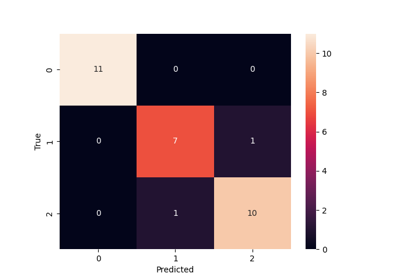
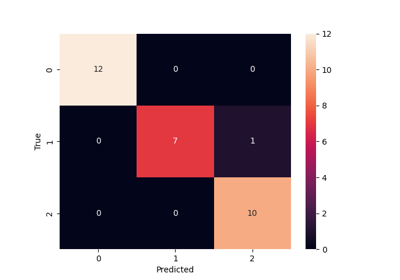
[ci skip] feat: Add adjusted bootstrap sampling to optimize the model towards icr samples cbba1f94c56dd8583269a4ff07836f05cc7d5595

diff --git a/searchindex.js b/searchindex.js
@@ -1,1 +1,1 @@
-Search.setIndex({"alltitles":{"API Reference":[[0,null]],"Computation times":[[3,null],[9,null]],"Example Gallery":[[1,null]],"Examples using icrlearn.ICRRandomForestClassifier":[[4,"examples-using-icrlearn-icrrandomforestclassifier"]],"Fitting and evaluating an ICR Random Forest":[[2,null]],"ICRRandomForestClassifier":[[4,null],[10,"icrrandomforestclassifier"]],"Predictor":[[0,"predictor"]],"User Guide":[[10,null]],"Utilities":[[0,"utilities"]],"icrlearn.utils.discovery.all_displays":[[5,null]],"icrlearn.utils.discovery.all_estimators":[[6,null]],"icrlearn.utils.discovery.all_functions":[[7,null]],"intra-class-rare-learn Documentation":[[8,null]]},"docnames":["api","auto_examples/index","auto_examples/plot_classifier","auto_examples/sg_execution_times","generated/icrlearn.ICRRandomForestClassifier","generated/icrlearn.utils.discovery.all_displays","generated/icrlearn.utils.discovery.all_estimators","generated/icrlearn.utils.discovery.all_functions","index","sg_execution_times","user_guide"],"envversion":{"sphinx":65,"sphinx.domains.c":3,"sphinx.domains.changeset":1,"sphinx.domains.citation":1,"sphinx.domains.cpp":9,"sphinx.domains.index":1,"sphinx.domains.javascript":3,"sphinx.domains.math":2,"sphinx.domains.python":4,"sphinx.domains.rst":2,"sphinx.domains.std":2,"sphinx.ext.intersphinx":1},"filenames":["api.rst","auto_examples/index.rst","auto_examples/plot_classifier.rst","auto_examples/sg_execution_times.rst","generated/icrlearn.ICRRandomForestClassifier.rst","generated/icrlearn.utils.discovery.all_displays.rst","generated/icrlearn.utils.discovery.all_estimators.rst","generated/icrlearn.utils.discovery.all_functions.rst","index.rst","sg_execution_times.rst","user_guide.rst"],"indexentries":{"all_displays() (in module icrlearn.utils.discovery)":[[5,"icrlearn.utils.discovery.all_displays",false]],"all_estimators() (in module icrlearn.utils.discovery)":[[6,"icrlearn.utils.discovery.all_estimators",false]],"all_functions() (in module icrlearn.utils.discovery)":[[7,"icrlearn.utils.discovery.all_functions",false]],"apply() (icrlearn.icrrandomforestclassifier method)":[[4,"icrlearn.ICRRandomForestClassifier.apply",false]],"calculate_rarity_scores() (icrlearn.icrrandomforestclassifier method)":[[4,"icrlearn.ICRRandomForestClassifier.calculate_rarity_scores",false]],"decision_path() (icrlearn.icrrandomforestclassifier method)":[[4,"icrlearn.ICRRandomForestClassifier.decision_path",false]],"estimators_samples_ (icrlearn.icrrandomforestclassifier property)":[[4,"icrlearn.ICRRandomForestClassifier.estimators_samples_",false]],"feature_importances_ (icrlearn.icrrandomforestclassifier property)":[[4,"icrlearn.ICRRandomForestClassifier.feature_importances_",false]],"fit() (icrlearn.icrrandomforestclassifier method)":[[4,"icrlearn.ICRRandomForestClassifier.fit",false]],"get_metadata_routing() (icrlearn.icrrandomforestclassifier method)":[[4,"icrlearn.ICRRandomForestClassifier.get_metadata_routing",false]],"get_params() (icrlearn.icrrandomforestclassifier method)":[[4,"icrlearn.ICRRandomForestClassifier.get_params",false]],"icrrandomforestclassifier (class in icrlearn)":[[4,"icrlearn.ICRRandomForestClassifier",false]],"predict() (icrlearn.icrrandomforestclassifier method)":[[4,"icrlearn.ICRRandomForestClassifier.predict",false]],"predict_log_proba() (icrlearn.icrrandomforestclassifier method)":[[4,"icrlearn.ICRRandomForestClassifier.predict_log_proba",false]],"predict_proba() (icrlearn.icrrandomforestclassifier method)":[[4,"icrlearn.ICRRandomForestClassifier.predict_proba",false]],"score() (icrlearn.icrrandomforestclassifier method)":[[4,"icrlearn.ICRRandomForestClassifier.score",false]],"set_fit_request() (icrlearn.icrrandomforestclassifier method)":[[4,"icrlearn.ICRRandomForestClassifier.set_fit_request",false]],"set_params() (icrlearn.icrrandomforestclassifier method)":[[4,"icrlearn.ICRRandomForestClassifier.set_params",false]],"set_score_request() (icrlearn.icrrandomforestclassifier method)":[[4,"icrlearn.ICRRandomForestClassifier.set_score_request",false]]},"objects":{"icrlearn":[[4,0,1,"","ICRRandomForestClassifier"]],"icrlearn.ICRRandomForestClassifier":[[4,1,1,"","apply"],[4,1,1,"","calculate_rarity_scores"],[4,1,1,"","decision_path"],[4,2,1,"","estimators_samples_"],[4,2,1,"","feature_importances_"],[4,1,1,"","fit"],[4,1,1,"","get_metadata_routing"],[4,1,1,"","get_params"],[4,1,1,"","predict"],[4,1,1,"","predict_log_proba"],[4,1,1,"","predict_proba"],[4,1,1,"","score"],[4,1,1,"","set_fit_request"],[4,1,1,"","set_params"],[4,1,1,"","set_score_request"]],"icrlearn.utils.discovery":[[5,3,1,"","all_displays"],[6,3,1,"","all_estimators"],[7,3,1,"","all_functions"]]},"objnames":{"0":["py","class","Python class"],"1":["py","method","Python method"],"2":["py","property","Python property"],"3":["py","function","Python function"]},"objtypes":{"0":"py:class","1":"py:method","2":"py:property","3":"py:function"},"terms":{"":[2,4,8],"0":[2,3,4,8,9],"00":[2,3,9],"01":[3,9],"08":8,"1":[2,3,4,8,9],"100":4,"11":2,"18":4,"2":[2,4],"2025":8,"3":4,"30":2,"644":[2,3,9],"8":2,"88":2,"91":2,"93":2,"A":[4,8],"For":4,"If":[4,6],"In":[2,4],"It":[4,8],"That":4,"The":[4,8,10],"To":8,"__":4,"accuraci":[2,4],"across":4,"actual":[5,6,7],"ad":4,"algorithm":10,"alia":4,"all":[1,4,5,6,7,9],"allow":4,"also":4,"altern":4,"an":[1,3,4,8,9],"ani":4,"annot":2,"api":8,"appli":[4,6],"ar":[4,6,8],"arrai":4,"attribut":4,"auto_exampl":3,"auto_examples_jupyt":1,"auto_examples_python":1,"avg":2,"bag":4,"base":4,"baseestim":6,"bool":4,"bootstrap":4,"brought":4,"build":4,"built":8,"calcul":4,"calculate_rarity_scor":4,"call":[4,10],"can":4,"cardin":4,"carri":4,"case":4,"cb_loop":4,"ccp_alpha":4,"chang":4,"check":4,"child":4,"class":[0,4,5,6,10],"class_weight":4,"classes_":4,"classif":4,"classifi":[2,4,6],"classification_report":2,"clf":2,"cluster":6,"code":[1,2],"column":4,"compat":8,"compon":4,"comput":4,"conf_matr":2,"confus":2,"confusion_matrix":2,"consist":4,"contain":4,"convert":4,"correctli":4,"correspond":4,"crawl":6,"creat":4,"criterion":4,"csc_matrix":4,"csr":4,"csr_matrix":4,"data":[4,10],"datapoint":4,"dataset":[2,4],"date":8,"decis":4,"decision_path":4,"deep":4,"default":[4,6],"defin":6,"demonstr":8,"descript":8,"design":10,"detail":8,"dict":4,"displai":5,"download":[1,2],"drawn":4,"dtype":4,"dynam":4,"e":4,"each":4,"effect":4,"either":4,"element":4,"enable_metadata_rout":4,"encapsul":4,"end":[2,4],"ensembl":4,"equal":4,"error":4,"estim":[4,6,8],"estimators_samples_":4,"evalu":[1,3,4,9],"exampl":[2,3,5,6,7,8,9],"execut":[3,9],"exist":4,"expect":4,"f1":2,"fals":4,"featur":4,"feature_importances_":4,"fetch":4,"file":[3,9],"filter":6,"fit":[1,3,4,6,9],"float":4,"float32":4,"footprint":4,"forest":[1,3,4,9,10],"form":[4,10],"format":4,"fraction":4,"from":[2,3,4,5,6,7,9],"full":2,"function":[0,6,7],"g":4,"galleri":[2,8,9],"gener":[1,2,4],"get":[4,5,6,7],"get_metadata_rout":4,"get_param":4,"gini":4,"give":4,"given":4,"go":2,"goe":4,"guid":[0,4,8],"ha":4,"handl":[8,10],"harsh":4,"have":4,"heatmap":2,"high":4,"higher":4,"highest":4,"how":[0,4,8],"i":[0,4,5,6,7,8,10],"icr":[1,3,4,9],"icr_rf":4,"icrlearn":[2,10],"icrrandomforestclassifi":2,"identifi":4,"ignor":4,"imbal":10,"import":[2,4,5,6,7],"impur":4,"includ":6,"index":4,"indic":4,"inform":[0,4],"inherit":6,"input":4,"insid":4,"inspect":4,"instanc":4,"instead":4,"intern":4,"intra":[0,4,10],"introductori":1,"ipynb":2,"iri":2,"its":4,"jul":8,"jupyt":[1,2],"kind":6,"known":4,"label":4,"latter":4,"leaf":4,"learn":[0,4],"least":6,"librari":8,"like":4,"link":8,"list":[4,5,6,7],"load":2,"load_iri":[2,4],"log":4,"macro":2,"mai":4,"mani":4,"map":4,"matplotlib":2,"matrix":[2,4],"max_depth":4,"max_featur":4,"max_leaf_nod":4,"max_sampl":4,"mb":[3,9],"mean":4,"measur":4,"mechan":4,"mem":[3,9],"member":4,"memori":4,"meta":4,"metadata":4,"metadata_rout":4,"metadatarequest":4,"method":4,"metric":[2,4],"min_impurity_decreas":4,"min_samples_leaf":4,"min_samples_split":4,"min_weight_fraction_leaf":4,"minut":2,"mislead":4,"model_select":2,"modif":10,"modul":6,"monotonic_cst":4,"more":[0,4],"multi":4,"n_class":4,"n_estim":4,"n_featur":4,"n_job":4,"n_node":4,"n_nodes_ptr":4,"n_output":4,"n_sampl":4,"name":[4,5,6,7],"ndarrai":4,"neg":4,"nest":4,"net":4,"new":[8,10],"node":4,"non":4,"none":[4,6],"normal":4,"note":4,"notebook":[1,2],"np":4,"number":4,"object":4,"one":[4,6],"onli":[4,6],"oob_scor":4,"option":4,"order":4,"origin":4,"other":4,"otherwis":4,"overview":8,"p":4,"packag":[0,8,10],"param":4,"paramet":[4,6],"pass":4,"path":4,"permutation_import":4,"pipelin":4,"place":8,"pleas":4,"plot":2,"plot_classifi":[2,3,9],"plt":2,"possibl":[4,6],"precis":2,"predict":[2,4],"predict_log_proba":4,"predict_proba":4,"print":2,"probabl":4,"properti":4,"provid":[4,8,10],"py":[2,3,9],"pyplot":2,"python":[1,2],"r":4,"rais":4,"random":[1,3,4,9,10],"random_st":4,"randomforestclassifi":4,"rare":[0,10],"rariti":[4,8],"rarity_measur":4,"rarity_scor":4,"re":4,"real":4,"recal":2,"reduc":4,"reduct":4,"refer":8,"regress":4,"regressor":6,"relev":4,"repositori":8,"request":4,"requir":4,"result":4,"retain":4,"return":[4,5,6,7],"return_x_i":[2,4],"rf":4,"right":8,"root":4,"rout":4,"run":2,"same":4,"sampl":[4,10],"sample_weight":4,"scikit":4,"score":[2,4],"script":2,"seaborn":2,"search":4,"second":2,"see":4,"self":4,"set":[2,4,8],"set_config":4,"set_fit_request":4,"set_param":4,"set_score_request":4,"shape":4,"should":[4,6],"show":2,"simpl":4,"sinc":4,"singl":4,"sklearn":[2,4,8],"slower":4,"sn":2,"so":4,"some":[2,4],"sourc":[1,2,8],"spars":4,"specif":6,"sphinx":[1,2],"split":[2,4],"sqrt":4,"start":8,"store":4,"str":[4,6],"string":[5,6,7],"sub":4,"subobject":4,"subset":4,"sum":4,"support":2,"t":4,"target":4,"test":[2,4,6],"test_siz":2,"th":4,"than":4,"thei":4,"thi":[0,2,4,6,8,10],"through":4,"thu":4,"time":2,"total":[2,3,4,9],"train":[2,4],"train_test_split":2,"transform":6,"tree":4,"true":[2,4],"tupl":[5,6,7],"type":[5,6],"type_filt":6,"unchang":4,"uniqu":4,"unless":4,"up":4,"updat":4,"us":[0,8],"user":[0,4,8],"util":4,"valu":[4,6],"verbos":4,"version":[4,8],"vote":4,"w":4,"warm_start":4,"warn":4,"we":2,"weight":[2,4],"well":4,"where":[4,5,6,7],"which":[4,6],"while":4,"within":[8,10],"work":4,"would":4,"x":[2,4],"x_leav":4,"x_test":2,"x_train":2,"xlabel":2,"y":[2,4],"y_pred":2,"y_test":2,"y_train":2,"ylabel":2,"you":[4,8],"zero":4,"zip":[1,2]},"titles":["API Reference","Example Gallery","Fitting and evaluating an ICR Random Forest","Computation times","ICRRandomForestClassifier","icrlearn.utils.discovery.all_displays","icrlearn.utils.discovery.all_estimators","icrlearn.utils.discovery.all_functions","intra-class-rare-learn Documentation","Computation times","User guide : contents"],"titleterms":{"all_displai":5,"all_estim":6,"all_funct":7,"an":2,"api":0,"class":8,"comput":[3,9],"discoveri":[5,6,7],"document":8,"evalu":2,"exampl":[1,4],"fit":2,"forest":2,"galleri":1,"guid":10,"icr":2,"icrlearn":[4,5,6,7],"icrrandomforestclassifi":[4,10],"intra":8,"learn":8,"predictor":0,"random":2,"rare":8,"refer":0,"time":[3,9],"us":4,"user":10,"util":[0,5,6,7]}})
+Search.setIndex({"alltitles":{"API Reference":[[0,null]],"Computation times":[[3,null],[9,null]],"Example Gallery":[[1,null]],"Examples using icrlearn.ICRRandomForestClassifier":[[4,"examples-using-icrlearn-icrrandomforestclassifier"]],"Fitting and evaluating an ICR Random Forest":[[2,null]],"ICRRandomForestClassifier":[[4,null],[10,"icrrandomforestclassifier"]],"Predictor":[[0,"predictor"]],"User Guide":[[10,null]],"Utilities":[[0,"utilities"]],"icrlearn.utils.discovery.all_displays":[[5,null]],"icrlearn.utils.discovery.all_estimators":[[6,null]],"icrlearn.utils.discovery.all_functions":[[7,null]],"intra-class-rare-learn Documentation":[[8,null]]},"docnames":["api","auto_examples/index","auto_examples/plot_classifier","auto_examples/sg_execution_times","generated/icrlearn.ICRRandomForestClassifier","generated/icrlearn.utils.discovery.all_displays","generated/icrlearn.utils.discovery.all_estimators","generated/icrlearn.utils.discovery.all_functions","index","sg_execution_times","user_guide"],"envversion":{"sphinx":65,"sphinx.domains.c":3,"sphinx.domains.changeset":1,"sphinx.domains.citation":1,"sphinx.domains.cpp":9,"sphinx.domains.index":1,"sphinx.domains.javascript":3,"sphinx.domains.math":2,"sphinx.domains.python":4,"sphinx.domains.rst":2,"sphinx.domains.std":2,"sphinx.ext.intersphinx":1},"filenames":["api.rst","auto_examples/index.rst","auto_examples/plot_classifier.rst","auto_examples/sg_execution_times.rst","generated/icrlearn.ICRRandomForestClassifier.rst","generated/icrlearn.utils.discovery.all_displays.rst","generated/icrlearn.utils.discovery.all_estimators.rst","generated/icrlearn.utils.discovery.all_functions.rst","index.rst","sg_execution_times.rst","user_guide.rst"],"indexentries":{"all_displays() (in module icrlearn.utils.discovery)":[[5,"icrlearn.utils.discovery.all_displays",false]],"all_estimators() (in module icrlearn.utils.discovery)":[[6,"icrlearn.utils.discovery.all_estimators",false]],"all_functions() (in module icrlearn.utils.discovery)":[[7,"icrlearn.utils.discovery.all_functions",false]],"apply() (icrlearn.icrrandomforestclassifier method)":[[4,"icrlearn.ICRRandomForestClassifier.apply",false]],"calculate_rarity_scores() (icrlearn.icrrandomforestclassifier method)":[[4,"icrlearn.ICRRandomForestClassifier.calculate_rarity_scores",false]],"decision_path() (icrlearn.icrrandomforestclassifier method)":[[4,"icrlearn.ICRRandomForestClassifier.decision_path",false]],"estimators_samples_ (icrlearn.icrrandomforestclassifier property)":[[4,"icrlearn.ICRRandomForestClassifier.estimators_samples_",false]],"feature_importances_ (icrlearn.icrrandomforestclassifier property)":[[4,"icrlearn.ICRRandomForestClassifier.feature_importances_",false]],"fit() (icrlearn.icrrandomforestclassifier method)":[[4,"icrlearn.ICRRandomForestClassifier.fit",false]],"get_metadata_routing() (icrlearn.icrrandomforestclassifier method)":[[4,"icrlearn.ICRRandomForestClassifier.get_metadata_routing",false]],"get_params() (icrlearn.icrrandomforestclassifier method)":[[4,"icrlearn.ICRRandomForestClassifier.get_params",false]],"icrrandomforestclassifier (class in icrlearn)":[[4,"icrlearn.ICRRandomForestClassifier",false]],"predict() (icrlearn.icrrandomforestclassifier method)":[[4,"icrlearn.ICRRandomForestClassifier.predict",false]],"predict_log_proba() (icrlearn.icrrandomforestclassifier method)":[[4,"icrlearn.ICRRandomForestClassifier.predict_log_proba",false]],"predict_proba() (icrlearn.icrrandomforestclassifier method)":[[4,"icrlearn.ICRRandomForestClassifier.predict_proba",false]],"score() (icrlearn.icrrandomforestclassifier method)":[[4,"icrlearn.ICRRandomForestClassifier.score",false]],"set_fit_request() (icrlearn.icrrandomforestclassifier method)":[[4,"icrlearn.ICRRandomForestClassifier.set_fit_request",false]],"set_params() (icrlearn.icrrandomforestclassifier method)":[[4,"icrlearn.ICRRandomForestClassifier.set_params",false]],"set_score_request() (icrlearn.icrrandomforestclassifier method)":[[4,"icrlearn.ICRRandomForestClassifier.set_score_request",false]]},"objects":{"icrlearn":[[4,0,1,"","ICRRandomForestClassifier"]],"icrlearn.ICRRandomForestClassifier":[[4,1,1,"","apply"],[4,1,1,"","calculate_rarity_scores"],[4,1,1,"","decision_path"],[4,2,1,"","estimators_samples_"],[4,2,1,"","feature_importances_"],[4,1,1,"","fit"],[4,1,1,"","get_metadata_routing"],[4,1,1,"","get_params"],[4,1,1,"","predict"],[4,1,1,"","predict_log_proba"],[4,1,1,"","predict_proba"],[4,1,1,"","score"],[4,1,1,"","set_fit_request"],[4,1,1,"","set_params"],[4,1,1,"","set_score_request"]],"icrlearn.utils.discovery":[[5,3,1,"","all_displays"],[6,3,1,"","all_estimators"],[7,3,1,"","all_functions"]]},"objnames":{"0":["py","class","Python class"],"1":["py","method","Python method"],"2":["py","property","Python property"],"3":["py","function","Python function"]},"objtypes":{"0":"py:class","1":"py:method","2":"py:property","3":"py:function"},"terms":{"":[2,4,8],"0":[2,3,4,8,9],"00":[2,3,9],"01":[3,9],"1":[2,3,4,8,9],"10":2,"100":4,"12":[2,8],"18":4,"2":[2,4],"2025":8,"2_min":4,"3":4,"30":2,"682":[2,3,9],"8":2,"88":2,"91":2,"93":2,"95":2,"96":2,"97":2,"A":[4,8],"For":4,"If":[4,6],"In":[2,4],"It":[4,8],"That":4,"The":[4,8,10],"To":8,"__":4,"accuraci":[2,4],"across":4,"actual":[5,6,7],"ad":4,"adapt":4,"adjust":4,"algorithm":[4,10],"alia":4,"all":[1,4,5,6,7,9],"allow":4,"also":4,"altern":4,"an":[1,3,4,8,9],"ani":4,"annot":2,"api":8,"appli":[4,6],"ar":[4,6,8],"arrai":4,"attribut":4,"auto_exampl":3,"auto_examples_jupyt":1,"auto_examples_python":1,"avg":2,"bag":4,"base":4,"baseestim":6,"bia":4,"bool":4,"bootstrap":4,"bootstrap_sampl":4,"brought":4,"build":4,"built":8,"calcul":4,"calculate_rarity_scor":4,"call":[4,10],"can":4,"cardin":4,"carri":4,"case":4,"cb":4,"cb_loop":4,"ccp_alpha":4,"chang":4,"check":4,"child":4,"class":[0,4,5,6,10],"class_weight":4,"classes_":4,"classif":4,"classifi":[2,4,6],"classification_report":2,"clf":2,"cluster":6,"code":[1,2],"column":4,"compat":8,"compon":4,"comput":4,"conf_matr":2,"confus":2,"confusion_matrix":2,"consist":4,"contain":4,"convert":4,"correctli":4,"correspond":4,"crawl":6,"creat":4,"criterion":4,"csc_matrix":4,"csr":4,"csr_matrix":4,"data":[4,10],"datapoint":4,"dataset":[2,4],"date":8,"decis":4,"decision_path":4,"deep":4,"default":[4,6],"defin":6,"demonstr":8,"descript":8,"design":10,"detail":8,"dict":4,"directli":4,"displai":5,"download":[1,2],"drawn":4,"dtype":4,"dure":4,"dynam":4,"e":4,"each":4,"effect":4,"either":4,"element":4,"enable_metadata_rout":4,"encapsul":4,"end":[2,4],"ensembl":4,"equal":4,"error":4,"estim":[4,6,8],"estimators_samples_":4,"evalu":[1,3,4,9],"exampl":[2,3,5,6,7,8,9],"execut":[3,9],"exist":4,"expect":4,"f1":2,"fals":4,"featur":4,"feature_importances_":4,"fetch":4,"file":[3,9],"filter":6,"fit":[1,3,4,6,9],"float":4,"float32":4,"footprint":4,"forest":[1,3,4,9,10],"form":[4,10],"format":4,"fraction":4,"from":[2,3,4,5,6,7,9],"full":2,"function":[0,6,7],"g":4,"galleri":[2,8,9],"gener":[1,2,4],"get":[4,5,6,7],"get_metadata_rout":4,"get_param":4,"gini":4,"give":4,"given":4,"go":2,"goe":4,"guid":[0,4,8],"ha":4,"handl":[8,10],"harsh":4,"have":4,"heatmap":2,"high":4,"higher":4,"highest":4,"how":[0,4,8],"i":[0,4,5,6,7,8,10],"icr":[1,3,4,9],"icr_rf":4,"icrlearn":[2,10],"icrrandomforestclassifi":2,"identifi":4,"ignor":4,"imbal":10,"import":[2,4,5,6,7],"impur":4,"includ":[4,6],"index":4,"indic":4,"inform":[0,4],"inherit":6,"input":4,"insid":4,"inspect":4,"instanc":4,"instead":4,"intern":4,"intra":[0,4,10],"introductori":1,"ipynb":2,"iri":2,"its":4,"jul":8,"jupyt":[1,2],"kind":6,"known":4,"l":4,"l2min":4,"label":4,"latter":4,"leaf":4,"learn":[0,4],"least":6,"librari":8,"like":4,"link":8,"list":[4,5,6,7],"load":2,"load_iri":[2,4],"log":4,"loop":4,"macro":2,"mai":4,"mani":4,"map":4,"matplotlib":2,"matrix":[2,4],"max_depth":4,"max_featur":4,"max_leaf_nod":4,"max_sampl":4,"mb":[3,9],"mean":4,"measur":4,"mechan":4,"mem":[3,9],"member":4,"memori":4,"meta":4,"metadata":4,"metadata_rout":4,"metadatarequest":4,"method":4,"metric":[2,4],"min_impurity_decreas":4,"min_samples_leaf":4,"min_samples_split":4,"min_weight_fraction_leaf":4,"minut":2,"mislead":4,"model":4,"model_select":2,"modif":10,"modifi":4,"modul":6,"monotonic_cst":4,"more":[0,4],"multi":4,"n_class":4,"n_estim":4,"n_featur":4,"n_job":4,"n_node":4,"n_nodes_ptr":4,"n_output":4,"n_sampl":4,"name":[4,5,6,7],"ndarrai":4,"neg":4,"nest":4,"net":4,"new":[8,10],"node":4,"non":4,"none":[4,6],"normal":4,"note":4,"notebook":[1,2],"np":4,"number":4,"object":4,"one":[4,6],"onli":[4,6],"oob_scor":4,"option":4,"order":4,"origin":4,"other":4,"otherwis":4,"overview":8,"p":4,"packag":[0,8,10],"param":4,"paramet":[4,6],"pass":4,"path":4,"permutation_import":4,"pipelin":4,"place":8,"pleas":4,"plot":2,"plot_classifi":[2,3,9],"plt":2,"possibl":[4,6],"precis":2,"predict":[2,4],"predict_log_proba":4,"predict_proba":4,"print":2,"probabl":4,"process":4,"properti":4,"provid":[4,8,10],"py":[2,3,9],"pyplot":2,"python":[1,2],"r":4,"rais":4,"random":[1,3,4,9,10],"random_st":4,"randomforestclassifi":4,"rare":[0,4,10],"rariti":[4,8],"rarity_adjustment_method":4,"rarity_measur":4,"rarity_scor":4,"re":4,"real":4,"recal":2,"reduc":4,"reduct":4,"refer":8,"regress":4,"regressor":6,"relev":4,"repositori":8,"request":4,"requir":4,"result":4,"retain":4,"return":[4,5,6,7],"return_x_i":[2,4],"rf":4,"right":8,"root":4,"rout":4,"run":2,"same":4,"sampl":[4,10],"sample_weight":4,"scikit":4,"score":[2,4],"script":2,"seaborn":2,"search":4,"second":2,"see":4,"self":4,"set":[2,4,8],"set_config":4,"set_fit_request":4,"set_param":4,"set_score_request":4,"shape":4,"should":[4,6],"show":2,"simpl":4,"sinc":4,"singl":4,"sklearn":[2,4,8],"slower":4,"sn":2,"so":4,"some":[2,4],"sourc":[1,2,8],"spars":4,"specif":6,"sphinx":[1,2],"split":[2,4],"sqrt":4,"start":8,"store":4,"str":[4,6],"string":[5,6,7],"sub":4,"subobject":4,"subset":4,"sum":4,"support":[2,4],"t":4,"target":4,"test":[2,4,6],"test_siz":2,"th":4,"than":4,"thei":4,"them":4,"thi":[0,2,4,6,8,10],"through":4,"thu":4,"time":2,"total":[2,3,4,9],"toward":4,"train":[2,4],"train_test_split":2,"transform":6,"tree":4,"true":[2,4],"tupl":[5,6,7],"type":[5,6],"type_filt":6,"unchang":4,"uniqu":4,"unless":4,"up":4,"updat":4,"us":[0,8],"user":[0,4,8],"util":4,"valu":[4,6],"verbos":4,"version":[4,8],"vote":4,"w":4,"warm_start":4,"warn":4,"we":2,"weight":[2,4],"well":4,"where":[4,5,6,7],"which":[4,6],"while":4,"wide":4,"within":[8,10],"work":4,"would":4,"x":[2,4],"x_leav":4,"x_test":2,"x_train":2,"xlabel":2,"y":[2,4],"y_pred":2,"y_test":2,"y_train":2,"ylabel":2,"you":[4,8],"zero":4,"zip":[1,2]},"titles":["API Reference","Example Gallery","Fitting and evaluating an ICR Random Forest","Computation times","ICRRandomForestClassifier","icrlearn.utils.discovery.all_displays","icrlearn.utils.discovery.all_estimators","icrlearn.utils.discovery.all_functions","intra-class-rare-learn Documentation","Computation times","User guide : contents"],"titleterms":{"all_displai":5,"all_estim":6,"all_funct":7,"an":2,"api":0,"class":8,"comput":[3,9],"discoveri":[5,6,7],"document":8,"evalu":2,"exampl":[1,4],"fit":2,"forest":2,"galleri":1,"guid":10,"icr":2,"icrlearn":[4,5,6,7],"icrrandomforestclassifi":[4,10],"intra":8,"learn":8,"predictor":0,"random":2,"rare":8,"refer":0,"time":[3,9],"us":4,"user":10,"util":[0,5,6,7]}})

diff --git a/auto_examples/plot_classifier.html b/auto_examples/plot_classifier.html
@@ -405,13 +405,13 @@ to download the full example code.</p>
 </div>
 <div class="sphx-glr-script-out highlight-none notranslate"><div class="highlight"><pre><span></span>              precision    recall  f1-score   support
 
-           0       1.00      1.00      1.00        11
-           1       0.88      0.88      0.88         8
-           2       0.91      0.91      0.91        11
+           0       1.00      1.00      1.00        12
+           1       1.00      0.88      0.93         8
+           2       0.91      1.00      0.95        10
 
-    accuracy                           0.93        30
-   macro avg       0.93      0.93      0.93        30
-weighted avg       0.93      0.93      0.93        30
+    accuracy                           0.97        30
+   macro avg       0.97      0.96      0.96        30
+weighted avg       0.97      0.97      0.97        30
 </pre></div>
 </div>
 <p>Plot a confusion matrix of the classifier’s predictions</p>
@@ -426,7 +426,7 @@ weighted avg       0.93      0.93      0.93        30
 <a href="https://matplotlib.org/stable/api/_as_gen/matplotlib.pyplot.show.html#matplotlib.pyplot.show" title="matplotlib.pyplot.show" class="sphx-glr-backref-module-matplotlib-pyplot sphx-glr-backref-type-py-function"><span class="n">plt</span><span class="o">.</span><span class="n">show</span></a><span class="p">()</span>
 </pre></div>
 </div>
-<img src="../_images/sphx_glr_plot_classifier_001.png" srcset="../_images/sphx_glr_plot_classifier_001.png" alt="plot classifier" class = "sphx-glr-single-img"/><p class="sphx-glr-timing"><strong>Total running time of the script:</strong> (0 minutes 1.644 seconds)</p>
+<img src="../_images/sphx_glr_plot_classifier_001.png" srcset="../_images/sphx_glr_plot_classifier_001.png" alt="plot classifier" class = "sphx-glr-single-img"/><p class="sphx-glr-timing"><strong>Total running time of the script:</strong> (0 minutes 1.682 seconds)</p>
 <div class="sphx-glr-footer sphx-glr-footer-example docutils container" id="sphx-glr-download-auto-examples-plot-classifier-py">
 <div class="sphx-glr-download sphx-glr-download-jupyter docutils container">
 <p><a class="reference download internal" download="" href="../_downloads/fed3e85cac62fc93e088aa8cb008d467/plot_classifier.ipynb"><code class="xref download docutils literal notranslate"><span class="pre">Download</span> <span class="pre">Jupyter</span> <span class="pre">notebook:</span> <span class="pre">plot_classifier.ipynb</span></code></a></p>

diff --git a/sg_execution_times.html b/sg_execution_times.html
@@ -359,7 +359,7 @@
                   
   <section id="computation-times">
 <span id="sphx-glr-sg-execution-times"></span><h1>Computation times<a class="headerlink" href="#computation-times" title="Link to this heading">#</a></h1>
-<p><strong>00:01.644</strong> total execution time for 1 file <strong>from all galleries</strong>:</p>
+<p><strong>00:01.682</strong> total execution time for 1 file <strong>from all galleries</strong>:</p>
 <div class="docutils container">
 <style scoped>
 <link href="https://cdnjs.cloudflare.com/ajax/libs/twitter-bootstrap/5.3.0/css/bootstrap.min.css" rel="stylesheet" />
@@ -381,7 +381,7 @@ $(document).ready( function () {
 </thead>
 <tbody>
 <tr class="row-even"><td><p><a class="reference internal" href="auto_examples/plot_classifier.html#sphx-glr-auto-examples-plot-classifier-py"><span class="std std-ref">Fitting and evaluating an ICR Random Forest</span></a> (<code class="docutils literal notranslate"><span class="pre">../examples/plot_classifier.py</span></code>)</p></td>
-<td><p>00:01.644</p></td>
+<td><p>00:01.682</p></td>
 <td><p>0.0</p></td>
 </tr>
 </tbody>

diff --git a/auto_examples/sg_execution_times.html b/auto_examples/sg_execution_times.html
@@ -359,7 +359,7 @@
                   
   <section id="computation-times">
 <span id="sphx-glr-auto-examples-sg-execution-times"></span><h1>Computation times<a class="headerlink" href="#computation-times" title="Link to this heading">#</a></h1>
-<p><strong>00:01.644</strong> total execution time for 1 file <strong>from auto_examples</strong>:</p>
+<p><strong>00:01.682</strong> total execution time for 1 file <strong>from auto_examples</strong>:</p>
 <div class="docutils container">
 <style scoped>
 <link href="https://cdnjs.cloudflare.com/ajax/libs/twitter-bootstrap/5.3.0/css/bootstrap.min.css" rel="stylesheet" />
@@ -381,7 +381,7 @@ $(document).ready( function () {
 </thead>
 <tbody>
 <tr class="row-even"><td><p><a class="reference internal" href="plot_classifier.html#sphx-glr-auto-examples-plot-classifier-py"><span class="std std-ref">Fitting and evaluating an ICR Random Forest</span></a> (<code class="docutils literal notranslate"><span class="pre">plot_classifier.py</span></code>)</p></td>
-<td><p>00:01.644</p></td>
+<td><p>00:01.682</p></td>
 <td><p>0.0</p></td>
 </tr>
 </tbody>

diff --git a/index.html b/index.html
@@ -336,7 +336,7 @@
                   
   <section id="intra-class-rare-learn-documentation">
 <h1>intra-class-rare-learn Documentation<a class="headerlink" href="#intra-class-rare-learn-documentation" title="Link to this heading">#</a></h1>
-<p><strong>Date</strong>: Jul 08, 2025 <strong>Version</strong>: 0.0.1</p>
+<p><strong>Date</strong>: Jul 12, 2025 <strong>Version</strong>: 0.0.1</p>
 <p><strong>Useful links</strong>:
 <a class="reference external" href="https://github.com/jannewer/intra-class-rare-learn">Source Repository</a></p>
 <p>This is the documentation for the <code class="docutils literal notranslate"><span class="pre">intra-class-rare-learn</span></code> package. The package
